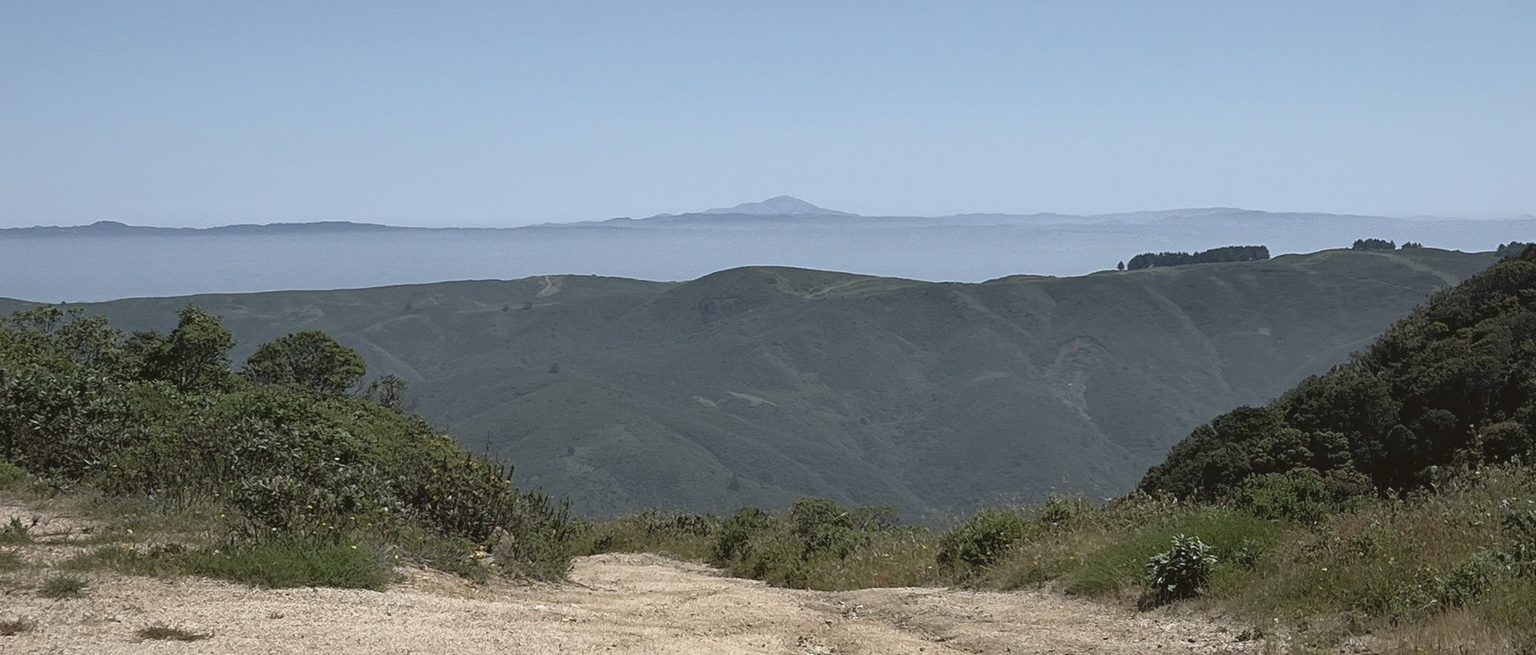
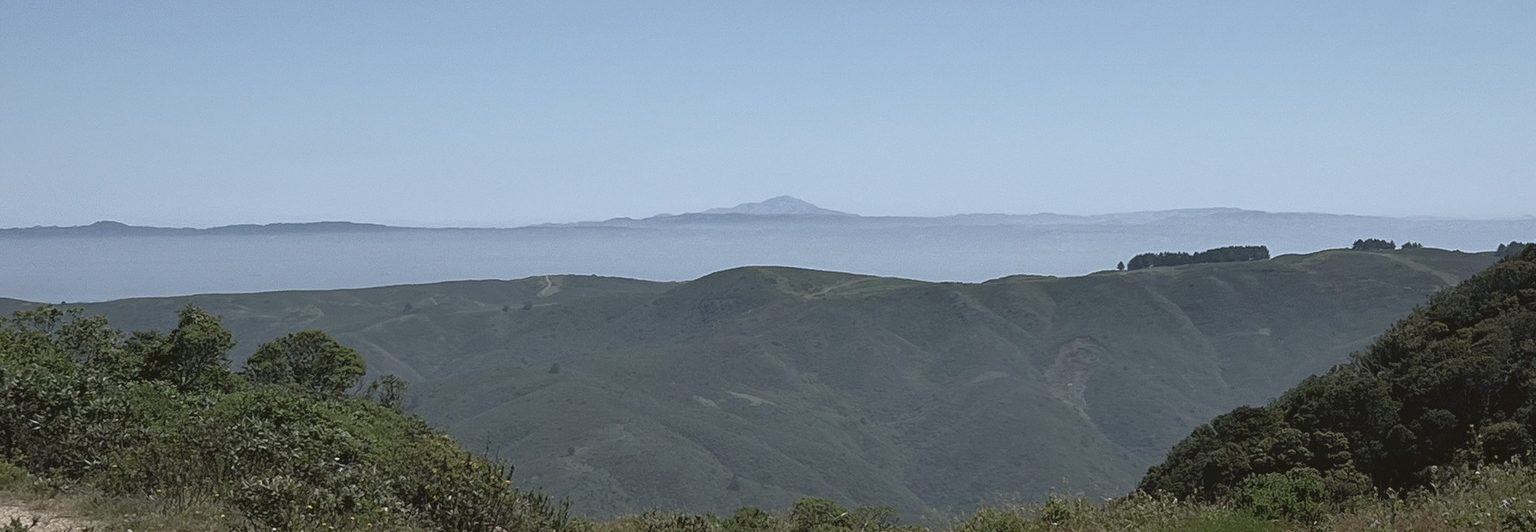
Begin: photo beside contact form; Advise: full mountain in band
The begin figure moves out of its own section into the left grid
column under the Book a Fit Call button, next to the form. The advise
horizon strip is re-exported tighter (and repositioned) so the distant
peak is fully visible inside the band crop.

diff --git a/sail/begin.html b/sail/begin.html
@@ -65,6 +65,10 @@
       <div class="btn-row" style="margin-top:1.2rem;">
         <a href="https://cal.com/tdcatalyst" class="btn btn-primary" target="_blank" rel="noopener">Book a Fit Call</a>
       </div>
+      <figure class="photo-figure" style="margin-top:2.5rem;">
+        <div class="fig-img"><img src="/images/pacifica-fog-ridge.jpg" alt="The marine layer spilling over the far ridge above green slopes" loading="lazy"></div>
+        <figcaption>The marine layer over the ridge &mdash; Pacifica</figcaption>
+      </figure>
     </div>
 
     <div>
@@ -119,15 +123,6 @@
   </div>
 </section>
 
-<!-- FIELD PHOTO -->
-<section aria-label="Field photography">
-  <div class="wrap">
-    <figure class="photo-figure">
-      <div class="fig-img"><img src="/images/pacifica-fog-ridge.jpg" alt="The marine layer spilling over the far ridge above green slopes" loading="lazy"></div>
-      <figcaption>The marine layer over the ridge &mdash; Pacifica</figcaption>
-    </figure>
-  </div>
-</section>
 
 <!-- CONTACT CARD -->
 <section>

diff --git a/advise/index.html b/advise/index.html
@@ -130,7 +130,7 @@
 
 <!-- FIELD PHOTO BAND -->
 <section class="photo-band photo-band--short" aria-label="Field photography">
-  <img src="/images/pacifica-horizon.jpg" alt="The fog sea on the horizon beyond rolling coastal ridges" loading="lazy" style="object-position: center 55%;">
+  <img src="/images/pacifica-horizon.jpg" alt="The fog sea on the horizon beyond rolling coastal ridges, the distant peak in full view" loading="lazy" style="object-position: center 45%;">
   <div class="band-note">The field &mdash; Pacifica coastal ridge</div>
 </section>
 
